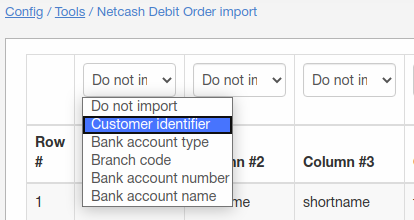
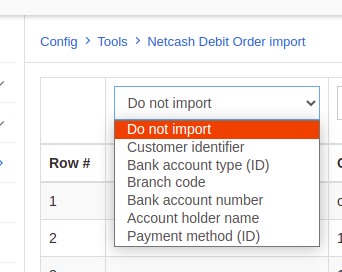
added info about payment method ID

diff --git a/files/en/payment_systems/netcash_do/netcash_do.md b/files/en/payment_systems/netcash_do/netcash_do.md
@@ -165,7 +165,7 @@ Under **charge logs** only logs regarding charges can be found:
 
 ![charge logs](charge_logs.png)
 
-We have created a tool that we use to import account details from the Netcash Master file or any other CSV with the relevant details. We simply require an identifier to match the payment record in the document to the customer on Splynx eg. an account/reference number or customer name. This tool can be found under `Config -> Tools`:
+We have created a tool that we use to import account details from the Netcash Master file or any other CSV with the relevant details. We simply require an identifier to match the payment record in the document to the customer on Splynx e.g. an account/reference number or customer name. This tool can be found under `Config -> Tools`:
 
 ![import tool](import_tool.png)
 
@@ -177,7 +177,26 @@ When the data has been uploaded, select the corresponding header:
 
 ![fields](required_fields.png)
 
-**Note:** The file must contain the **ID/Name**, **bank account type**, **branch code**, **bank account number**, and **bank account name**.
+**Note:** The file must contain the **Customer id**, **Bank account type id**, **Branch code**, **Bank account number**, **Account holder name** and **Payment method id**.
+
+<details>
+<summary><b>Example: change customer's payment method during import</b></summary>
+<p markdown="1">
+
+![payment_method_import](payment_method_import.png)
+
+![payment_method_import](payment_method_import1.png)
+
+In case **Payment method id** value is set in CSV file and [payment method](configuration/finance/payment_methods/payment_methods.md) exists in Splynx, the customer's `Payment method` (*Customers → List → View Customer → Billing → Billing Overview → Billing Settings section → Payment method field*) will be changed after import.
+
+If **Payment method id** value is empty in CSV file - the customer's payment method will not be changed.
+
+And, when **Payment method id** value is incorrect - it will be ignored during import.
+
+![payment_method_import](payment_method_import2.png)
+
+</p>
+</details>
 
 -------------
 
